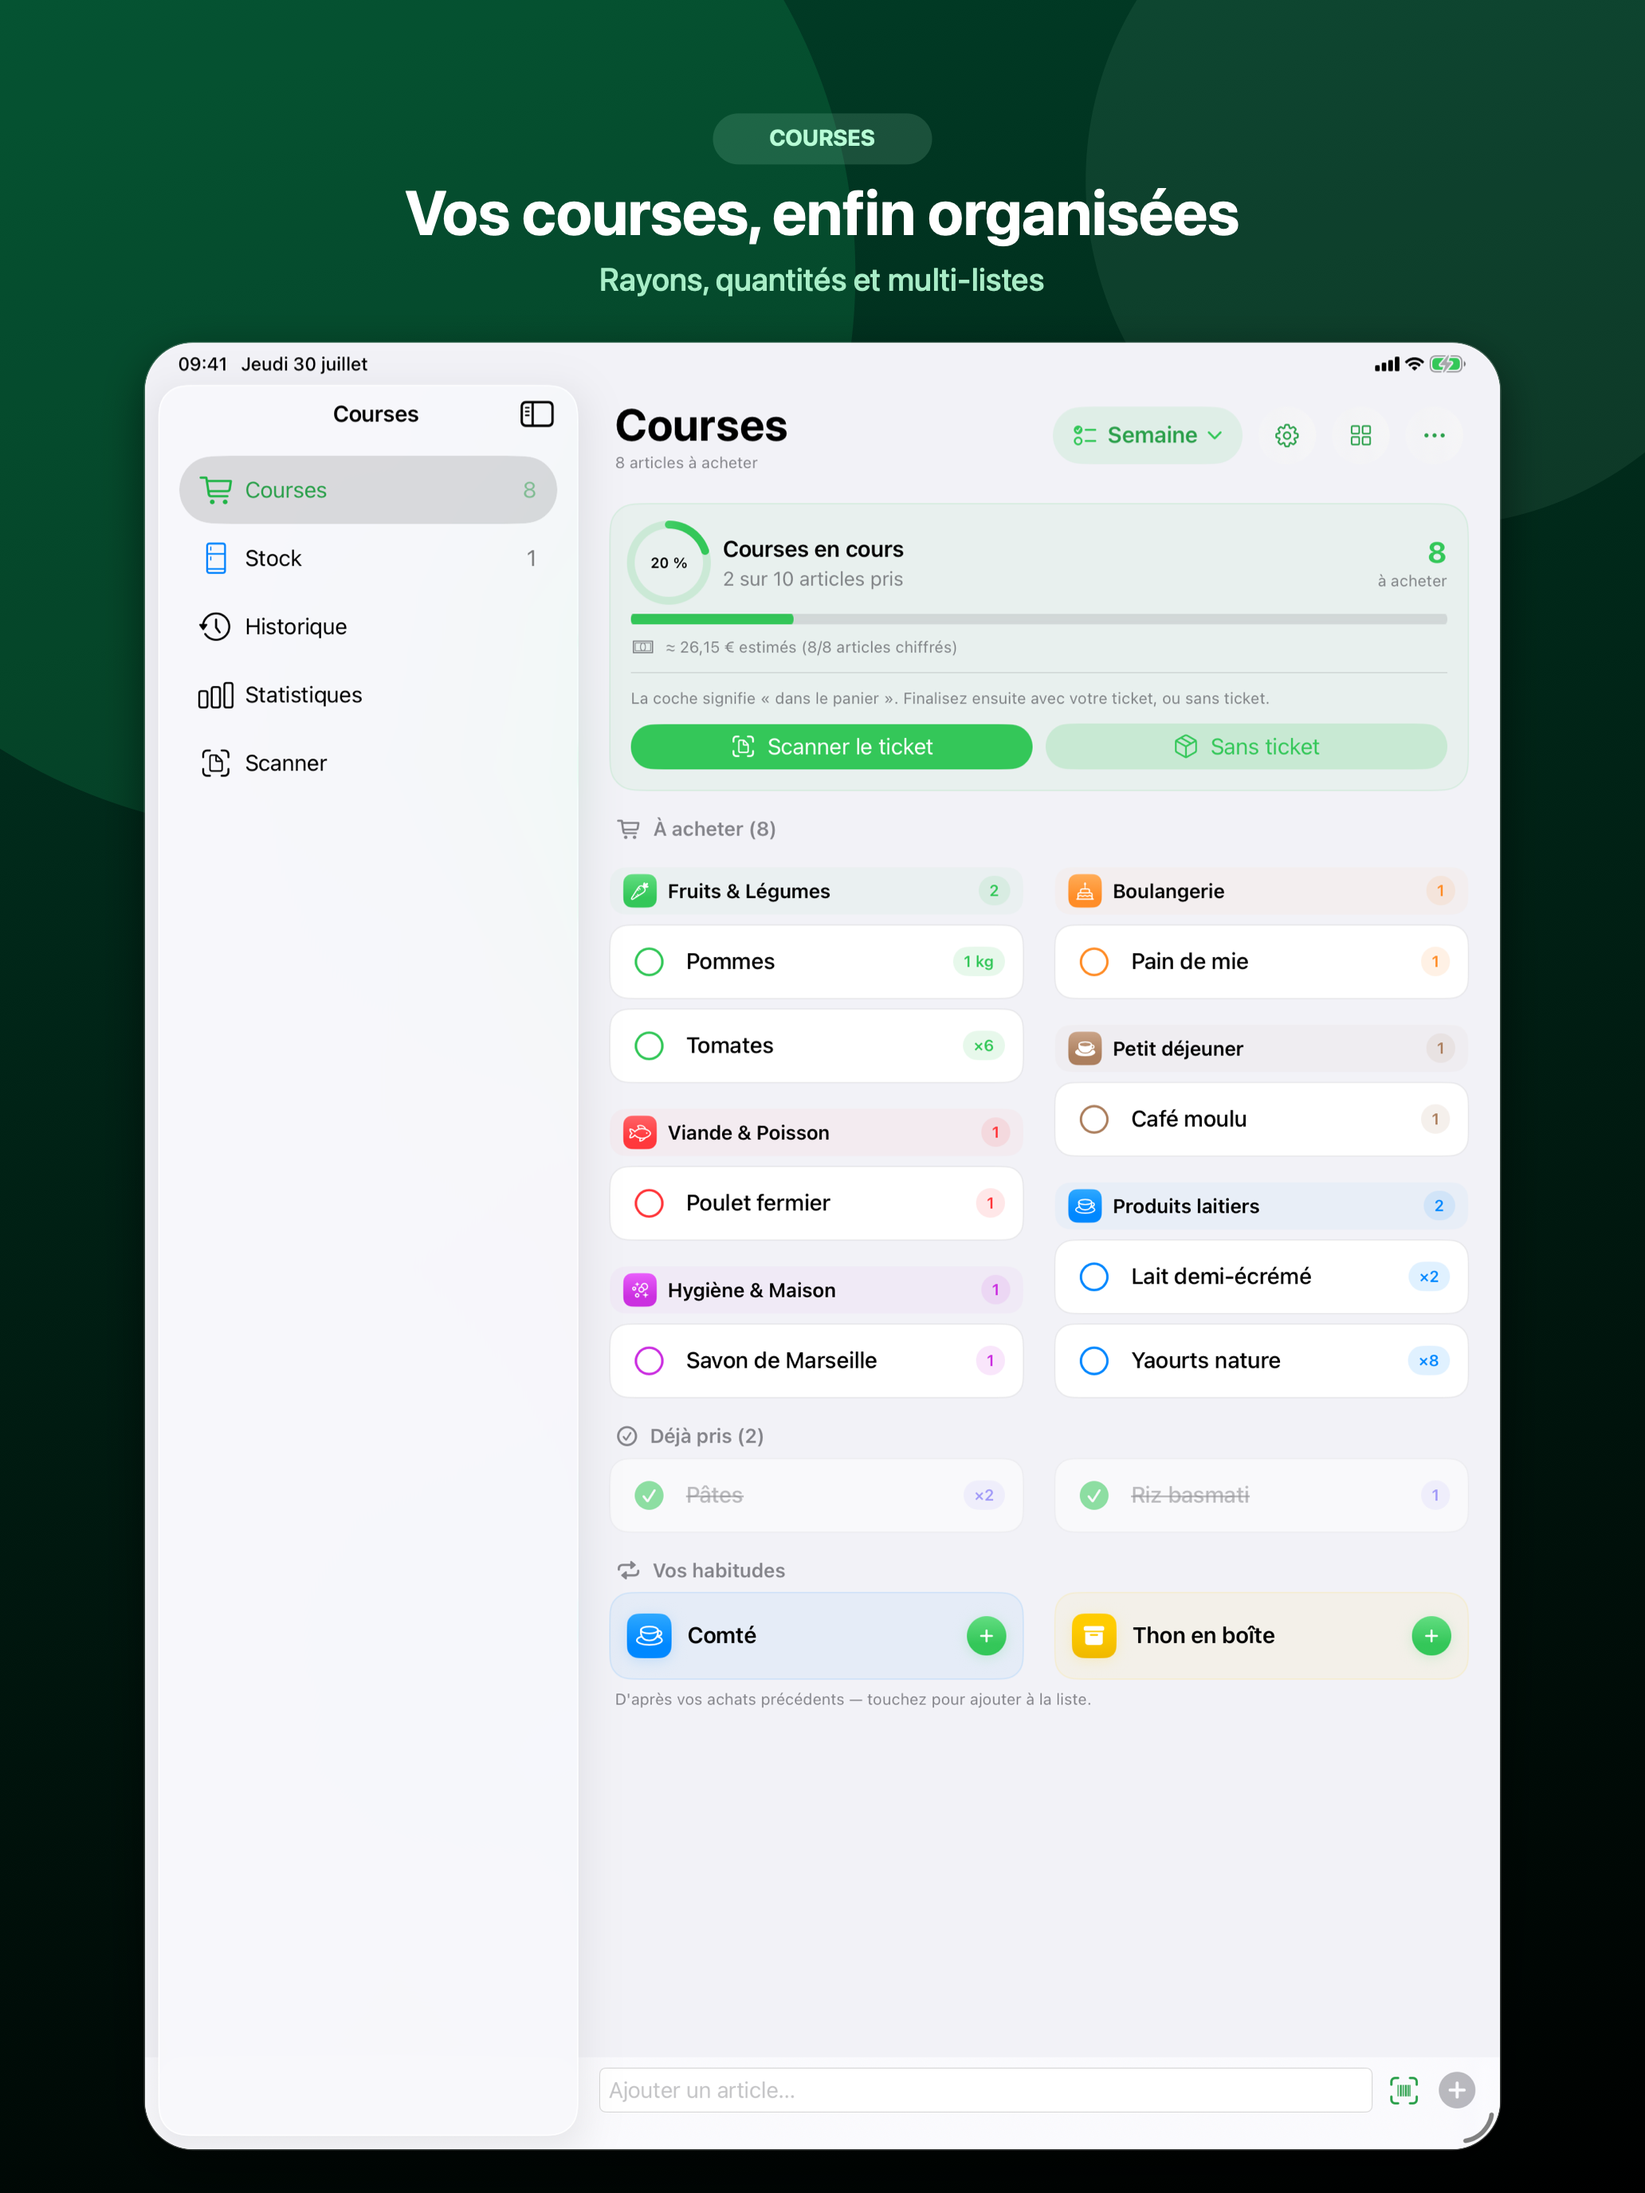
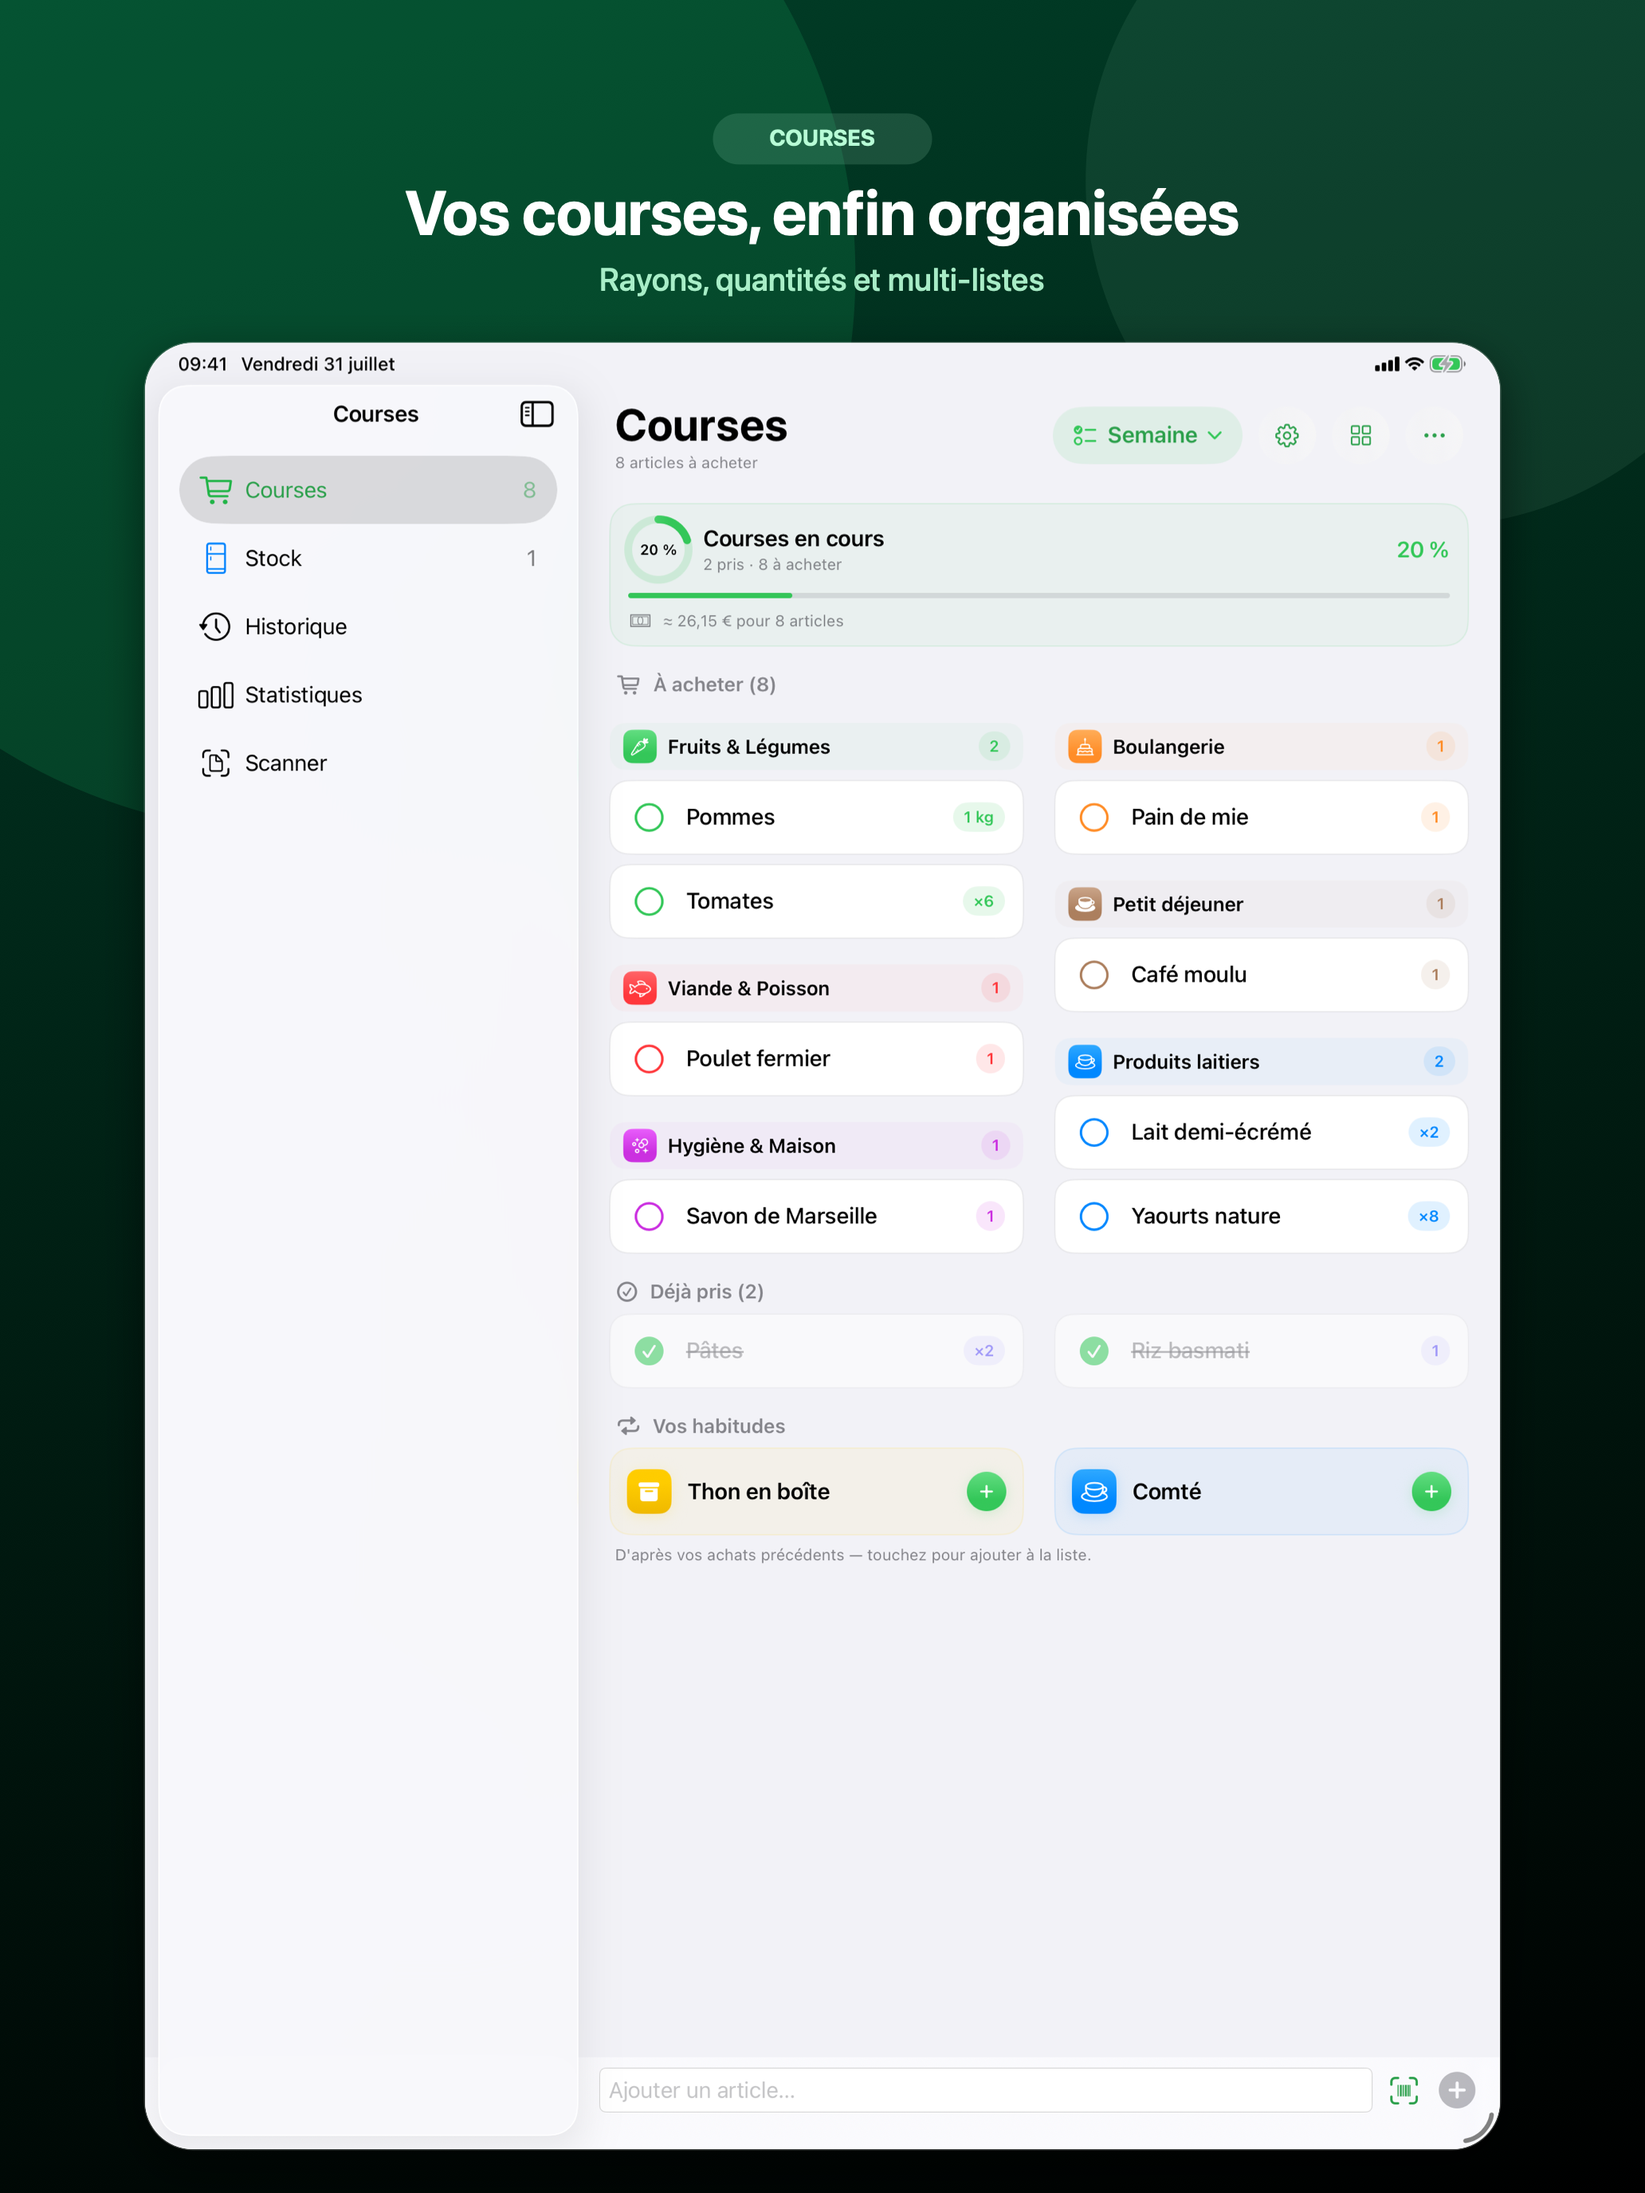
Actualise le parcours de finalisation des courses

diff --git a/index.html b/index.html
@@ -7,7 +7,7 @@
   <meta name="description" content="Courses organise vos listes, votre stock, vos tickets et votre budget sur iPhone et iPad.">
   <meta property="og:title" content="Courses — Vos courses, enfin organisées">
   <meta property="og:description" content="Liste intelligente, stock anti-gaspillage, scan de tickets et suivi du budget sur iPhone et iPad.">
-  <meta property="og:image" content="assets/capture-liste.png?v=20260730">
+  <meta property="og:image" content="assets/capture-liste.png?v=20260731">
   <meta property="og:type" content="website">
   <title>Courses — Vos courses, enfin organisées</title>
   <link rel="icon" type="image/png" href="assets/app-icon.png">
@@ -426,7 +426,7 @@
           </ul>
         </div>
         <div class="hero-shot-wrap">
-          <img class="marketing-shot" src="assets/capture-liste.png?v=20260730" alt="Courses sur iPhone : liste organisée par rayons">
+          <img class="marketing-shot" src="assets/capture-liste.png?v=20260731" alt="Courses sur iPhone : liste organisée par rayons avec progression compacte">
         </div>
       </div>
     </section>
@@ -509,15 +509,16 @@
         <div class="feature-copy">
           <p class="kicker">Le bon geste au bon moment</p>
           <h2>Votre liste reste fiable, même en plein magasin.</h2>
-          <p class="sub">Un article coché est placé dans « Déjà pris » sans être confondu avec un produit réellement rangé. À la fin, choisissez de finaliser avec votre ticket — pour conserver les prix — ou sans ticket.</p>
+          <p class="sub">Un article coché passe simplement dans « Déjà pris » : aucun choix ne vous interrompt pendant les courses. Une fois le panier complet, finalisez quand vous le souhaitez, avec le ticket pour conserver les prix ou sans ticket.</p>
           <ul class="checks">
-            <li>Confirmation avant de remettre un article dans le panier</li>
+            <li>Aucune demande de finalisation tant qu’il reste des articles</li>
+            <li>Un seul bouton compact lorsque le panier est complet</li>
+            <li>Option « Plus tard » et scanner toujours accessible</li>
             <li>Rapprochement avec le ticket pour éviter les doublons</li>
-            <li>Produits non alimentaires conservés dans l’historique</li>
           </ul>
         </div>
         <div class="feature-visual">
-          <img src="assets/capture-liste.png?v=20260730" alt="Finalisation des courses depuis la liste" loading="lazy">
+          <img src="assets/capture-liste.png?v=20260731" alt="Liste de courses avec progression compacte et sans demande prématurée" loading="lazy">
         </div>
       </div>
     </section>
@@ -530,7 +531,7 @@
           <p class="sub">La navigation s’adapte aux iPad mini, 11 et 13 pouces, en portrait comme en paysage, avec une présentation confortable et des textes qui restent lisibles.</p>
         </div>
         <div class="ipad-frame">
-          <img src="assets/capture-ipad.png?v=20260730" alt="Courses sur iPad avec barre latérale et liste de courses" loading="lazy">
+          <img src="assets/capture-ipad.png?v=20260731" alt="Courses sur iPad avec barre latérale, liste et progression compacte" loading="lazy">
         </div>
       </div>
     </section>
